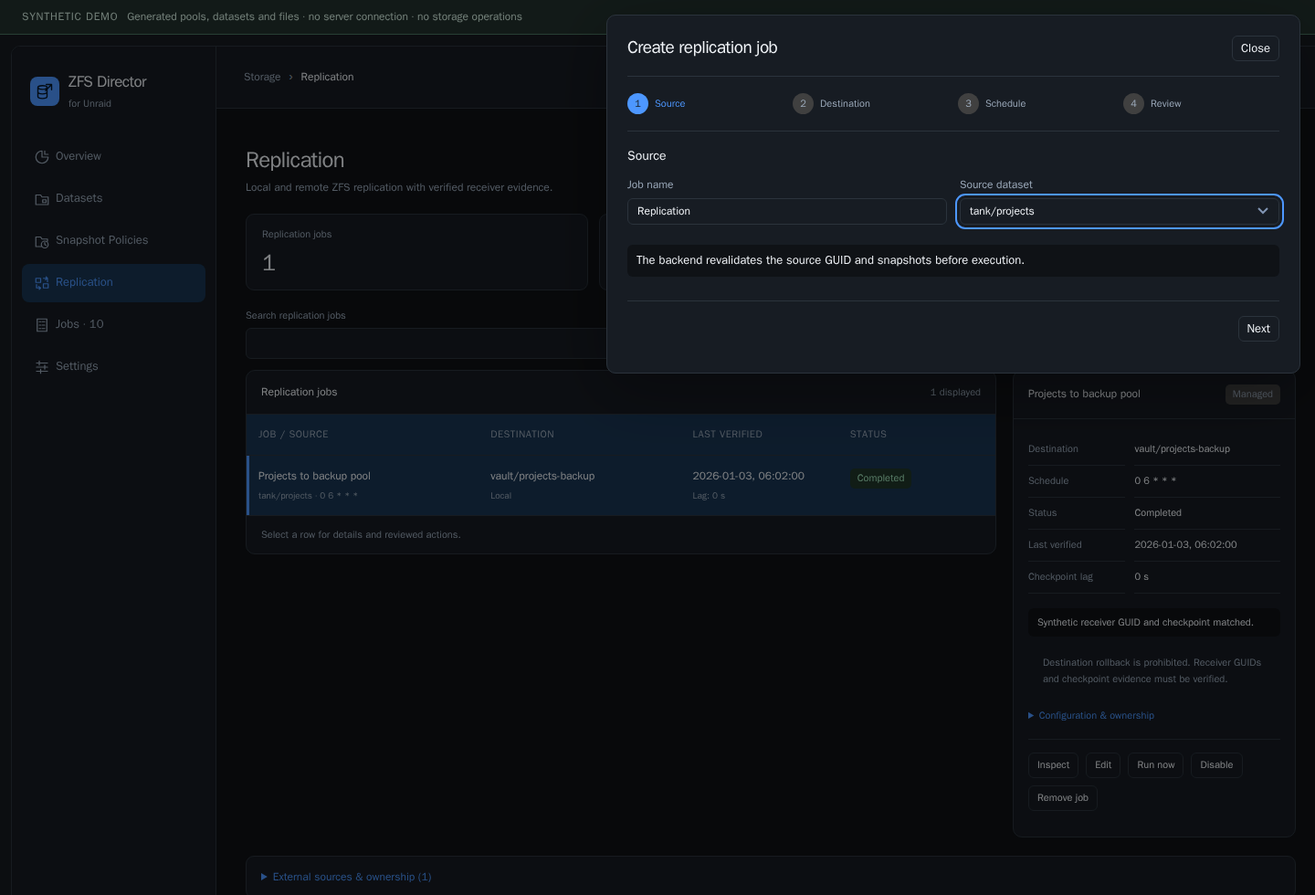
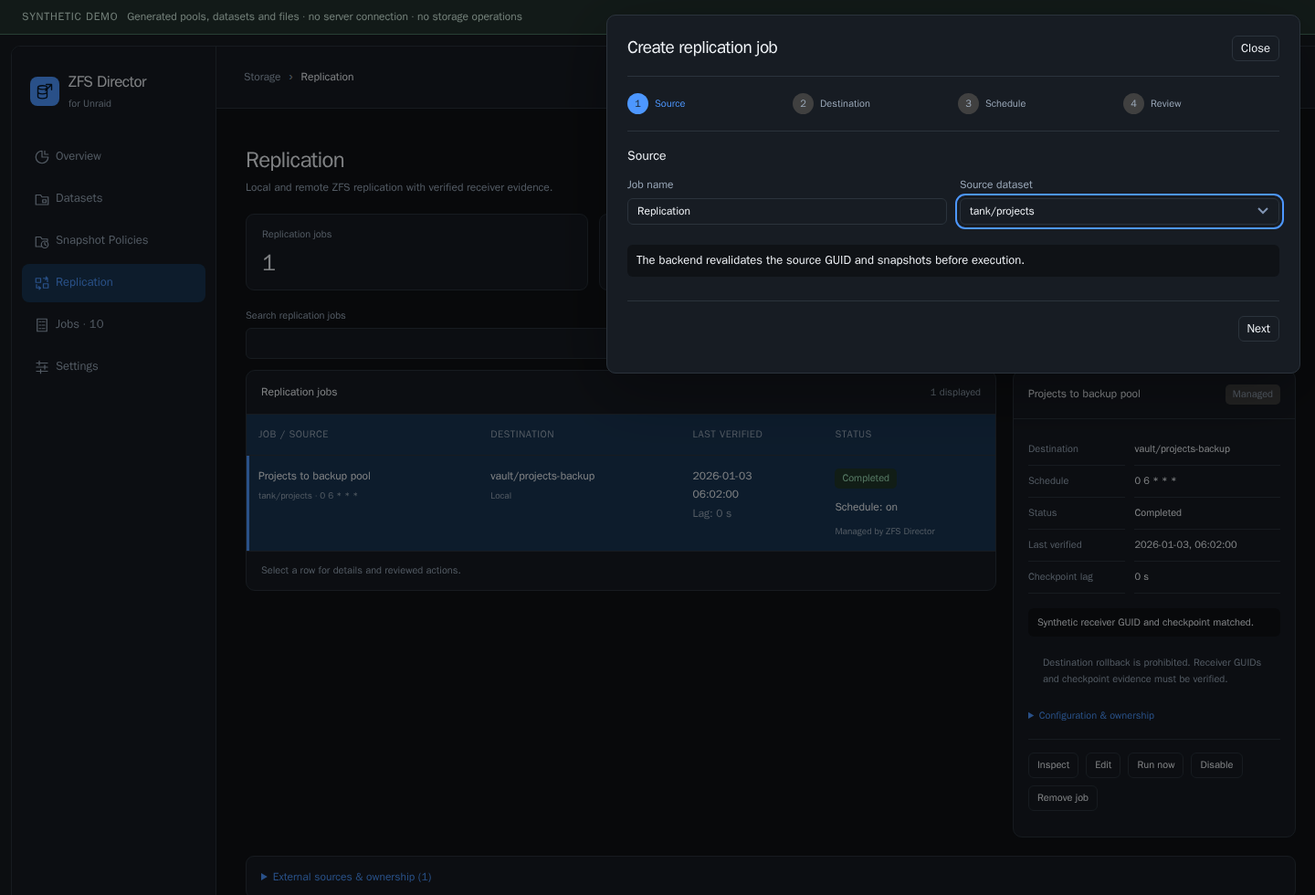
feat: clearer Status and date columns in Snapshot Policies and Replication (2026.11.09.6)

Changed region(s): [[0.1875, 0.5204, 0.7812, 0.6429]]

diff --git a/src/frontend/ZFSMProtection.js b/src/frontend/ZFSMProtection.js
@@ -58,6 +58,8 @@ function zfsmCreateProtection(options) {
         return control;
     }
     function when(value){return value?(typeof zfsmFormatDateTime==='function'?zfsmFormatDateTime(value):String(value)):'Unknown';}
+    function verifiedCell(r){const box=el('div');const verified=lastVerifiedLines(r);if(typeof verified==='string')box.append(el('strong',verified));else box.append(verified);box.append(el('small','Lag: '+(r.last_job?.verification?.lag_seconds==null?'Unknown':r.last_job.verification.lag_seconds+' s'),'zfsm-muted'));return box;}
+    function lastVerifiedLines(def){return def.last_job?.verification?.verified===true&&['completed','up_to_date'].includes(def.last_job.verified_outcome)?whenLines(def.last_job.finished_at):'Unknown';}
     function lastVerified(def){return def.last_job?.verification?.verified===true&&['completed','up_to_date'].includes(def.last_job.verified_outcome)?when(def.last_job.finished_at):'Unknown';}
     async function request(fields){const r=await options.request(fields);if(!r||typeof r!=='object'||Array.isArray(r))throw new Error('Invalid backend response.');if(r.failed&&Object.keys(r.failed).length)throw new Error(Object.values(r.failed).join('; '));return r;}
     function close(){if(dialog){const d=dialog;dialog=null;if(d.open)d.close();d.remove();}if(opener?.isConnected)opener.focus({preventScroll:true});}
@@ -71,6 +73,27 @@ function zfsmCreateProtection(options) {
     function onOff(value){return [true,1,'1','yes','zfs'].includes(value)?'On':[false,0,'0','no'].includes(value)?'Off':'Sanoid default';}
     function datasetPresent(def){if(typeof def.dataset_present==='boolean')return def.dataset_present;return !Array.isArray(data?.datasets)||data.datasets.some(item=>(typeof item==='string'?item:item.name)===def.dataset);}
     function lastPolicyRun(def){return def.owner==='external'?'Not tracked by Director':def.last_job?when(def.last_job.finished_at||def.last_job.started_at||def.last_job.created):'No runs yet';}
+    function lastPolicyRunCell(def){return def.owner==='external'||!def.last_job?lastPolicyRun(def):whenLines(def.last_job.finished_at||def.last_job.started_at||def.last_job.created);}
+    // Date and time on two lines so a long weekday format cannot run into the next column.
+    function whenLines(value){
+        const text=when(value),cut=text.lastIndexOf(', ');
+        if(cut<0)return text;
+        const box=el('div',undefined,'zfsm-protection-when');box.append(el('span',text.slice(0,cut)),el('span',text.slice(cut+2)));return box;
+    }
+    // Status column: result of the last run first, then whether the schedule is on, then who owns the definition.
+    function statusStack(def,type){
+        const box=el('div',undefined,'zfsm-status-stack');
+        if(def.owner==='external'){
+            box.append(el('span',def.enabled?'Configured in Sanoid':'Disabled in Sanoid'),el('small','External: not tracked by Director'));
+            return box;
+        }
+        if(type==='policy'&&!datasetPresent(def)){box.append(el('span','Dataset missing — execution blocked','zfsm-error'));return box;}
+        if(def.last_job)box.append(status(def.last_job.verified_outcome));else box.append(el('span','Not run yet','zfsm-protection-badge'));
+        box.append(el('span','Schedule: '+(def.enabled===false?'paused':'on')));
+        if(def.owner==='managed')box.append(el('small','Managed by ZFS Director'));
+        return box;
+    }
+    function stateText(node){return [...node.childNodes].map(child=>child.textContent).filter(Boolean).join(' · ');}
     function definitionState(def){if(def.owner==='external')return el('span',def.enabled?'Configured in Sanoid':'Disabled in Sanoid');if(!datasetPresent(def))return el('span','Dataset missing — execution blocked','zfsm-error');const n=el('div',def.enabled?'Enabled':'Disabled');if(def.last_job)n.append(el('br'),status(def.last_job.verified_outcome));return n;}
     const retentionTiers=['frequently','hourly','daily','weekly','monthly','yearly'];
     function retention(def){const host=el('div'),counts=retentionTiers.map(t=>[t,policyValue(def,t)]),nonzero=counts.filter(([,v])=>v!==undefined&&v!==null&&v!==''&&Number(v)>0);host.append(el('span',nonzero.length?nonzero.map(([t,v])=>v+' '+t+' snapshots').join(' · '):counts.every(([,v])=>v!==undefined&&v!==null&&v!==''&&Number(v)===0)?'All retention counts are zero':'Sanoid defaults'));humanRows(details(host,'All retention counts'),counts.map(([t,v])=>[t[0].toUpperCase()+t.slice(1),v===undefined||v===null||v===''?'Sanoid default':Number(v)===0?'Off (0 snapshots)':v+' snapshots']));return host;}
@@ -166,7 +189,7 @@ function zfsmCreateProtection(options) {
     function heading(host,title,subtitle,action,callback){const head=el('header',undefined,'zfsm-protection-heading'),text=el('div');text.append(el('h2',title),el('p',subtitle,'zfsm-muted'));head.append(text);if(action){const primary=btn(action,callback);primary.classList.add('zfsm-primary');head.append(primary);}host.append(head);}
     function metrics(host,values){if(compact())return;const cards=el('div',undefined,'zfsm-protection-metrics');for(const [label,value]of values){const card=el('section',undefined,'zfsm-protection-card');card.append(el('h3',label),el('strong',value));cards.append(card);}host.append(cards);}
     function rowTitle(title,subtitle){const n=el('div',undefined,'zfsm-protection-row-title');n.append(el('strong',title));if(subtitle)n.append(el('small',subtitle,'zfsm-muted'));return n;}
-    function inspectorSummary(host,def,type){if(type==='policy'){humanRows(host,[['Name',def.name||def.dataset],['Status',definitionState(def).textContent],['Snapshot creation',policyCreation(def)],['Old snapshot deletion',policyDeletion(def)],['Last run',lastPolicyRun(def)],['Last snapshot',when(def.last_snapshot)]]);}else{humanRows(host,[['Destination',(def.mode==='remote'?def.user+'@'+def.host+':':'')+def.target],['Schedule',def.schedule],['Status',def.enabled===false?'Disabled':outcomes[def.last_job?.verified_outcome]||'Unknown'],['Last verified',lastVerified(def)],['Checkpoint lag',def.last_job?.verification?.lag_seconds==null?'Unknown':def.last_job.verification.lag_seconds+' s']]);if(def.last_job?.verification?.reason)notice(host,def.last_job.verification.reason);}
+    function inspectorSummary(host,def,type){if(type==='policy'){humanRows(host,[['Name',def.name||def.dataset],['Status',stateText(definitionState(def))],['Snapshot creation',policyCreation(def)],['Old snapshot deletion',policyDeletion(def)],['Last run',lastPolicyRun(def)],['Last snapshot',when(def.last_snapshot)]]);}else{humanRows(host,[['Destination',(def.mode==='remote'?def.user+'@'+def.host+':':'')+def.target],['Schedule',def.schedule],['Status',def.enabled===false?'Disabled':outcomes[def.last_job?.verified_outcome]||'Unknown'],['Last verified',lastVerified(def)],['Checkpoint lag',def.last_job?.verification?.lag_seconds==null?'Unknown':def.last_job.verification.lag_seconds+' s']]);if(def.last_job?.verification?.reason)notice(host,def.last_job.verification.reason);}
         host.append(el('p',type==='policy'?'Manual, foreign, held and replication-linked snapshots remain protected by backend review.':'Destination rollback is prohibited. Receiver GUIDs and checkpoint evidence must be verified.','zfsm-protection-footer'));inspect(def,type,details(host,'Configuration & ownership'));
     }
     function definitionList(host,type,items,columns,values){const layout=el('div',undefined,'zfsm-protection-main'),panel=el('section',undefined,'zfsm-protection-list');layout.dataset.compact=String(compact());const title=el('div',undefined,'zfsm-protection-panel-title');title.append(el('strong',type==='policy'?'Snapshot policies':'Replication jobs'),el('span',items.length+' displayed','zfsm-muted'));panel.append(title);layout.append(panel);host.append(layout);let inspector;
@@ -178,10 +201,10 @@ function zfsmCreateProtection(options) {
     function policies(host){heading(host,'Snapshot Policies','Create snapshots on schedule and choose when old snapshots are deleted.','New policy',()=>policyEditor());
         const present=data.policies.filter(datasetPresent);metrics(host,[['Snapshot policies',present.length],['Managed policies',present.filter(p=>p.owner==='managed').length],['Needs attention',data.policies.filter(p=>p.owner==='managed'&&!datasetPresent(p)).length]]);
         const tools=el('div',undefined,'zfsm-protection-toolbar'),search=field(tools,'policy_search','Search dataset / template','','search'),owner=field(tools,'policy_owner','Owner','','text',[['','All owners'],['managed','Managed'],['external','External']]);host.append(tools);const results=el('div');host.append(results);
-        const draw=()=>{results.replaceChildren();const filtered=data.policies.filter(p=>(!owner.value||p.owner===owner.value)&&JSON.stringify([p.name,p.dataset,p.use_template,p.effective]).toLowerCase().includes(search.value.toLowerCase()));const drawTable=(target,items)=>definitionList(target,'policy',items,['Dataset / policy','Creation, retention & deletion','Last execution','Status'],p=>{const counts=policySchedule(p);const state=el('div');state.append(el('span',p.owner==='managed'?'Managed':'External','zfsm-protection-badge'),definitionState(p));return [rowTitle(p.dataset,(p.name||'Sanoid policy')+(p.recursive?' · includes descendants':'')),counts,lastPolicyRun(p),state];});drawTable(results,filtered.filter(p=>datasetPresent(p)||p.owner==='managed'));const missing=filtered.filter(p=>p.owner!=='managed'&&!datasetPresent(p));if(missing.length){const archived=details(results,'Configuration entries without matching datasets ('+missing.length+')');notice(archived,'These may be examples or outdated configuration entries. No matching dataset was found in the current inventory; the configuration file is unchanged.');drawTable(archived,missing);}};search.addEventListener('input',draw);owner.addEventListener('change',draw);draw();externalSources(host,'policy');host.append(el('p','Retention preserves snapshots without confirmed managed GUID provenance and replication references.','zfsm-protection-footer'));
+        const draw=()=>{results.replaceChildren();const filtered=data.policies.filter(p=>(!owner.value||p.owner===owner.value)&&JSON.stringify([p.name,p.dataset,p.use_template,p.effective]).toLowerCase().includes(search.value.toLowerCase()));const drawTable=(target,items)=>definitionList(target,'policy',items,['Dataset / policy','Creation, retention & deletion','Last execution','Status'],p=>{const counts=policySchedule(p);return [rowTitle(p.dataset,(p.name||'Sanoid policy')+(p.recursive?' · includes descendants':'')),counts,lastPolicyRunCell(p),statusStack(p,'policy')];});drawTable(results,filtered.filter(p=>datasetPresent(p)||p.owner==='managed'));const missing=filtered.filter(p=>p.owner!=='managed'&&!datasetPresent(p));if(missing.length){const archived=details(results,'Configuration entries without matching datasets ('+missing.length+')');notice(archived,'These may be examples or outdated configuration entries. No matching dataset was found in the current inventory; the configuration file is unchanged.');drawTable(archived,missing);}};search.addEventListener('input',draw);owner.addEventListener('change',draw);draw();externalSources(host,'policy');host.append(el('p','Retention preserves snapshots without confirmed managed GUID provenance and replication references.','zfsm-protection-footer'));
     }
     function replications(host){heading(host,'Replication','Local and remote ZFS replication with verified receiver evidence.','New replication',()=>replicationWizard());metrics(host,[['Replication jobs',data.replications.length],['Verified complete',data.replications.filter(r=>['completed','up_to_date'].includes(r.last_job?.verified_outcome)).length],['Needs attention',data.replications.filter(r=>['blocked','failed','interrupted','recovery_required','unknown'].includes(r.last_job?.verified_outcome)).length]]);
-        const tools=el('div',undefined,'zfsm-protection-toolbar'),search=field(tools,'replication_search','Search replication jobs','','search'),filter=field(tools,'replication_status','Job status','','text',[['','All statuses'],['enabled','Enabled'],['disabled','Disabled'],['attention','Needs attention']]);host.append(tools);const results=el('div');host.append(results);const draw=()=>{results.replaceChildren();const items=data.replications.filter(r=>(!search.value||[r.name,r.source,r.target].join(' ').toLowerCase().includes(search.value.toLowerCase()))&&(!filter.value||(filter.value==='enabled'?r.enabled!==false:filter.value==='disabled'?r.enabled===false:['blocked','failed','interrupted','recovery_required','unknown'].includes(r.last_job?.verified_outcome))));definitionList(results,'replication',items,['Job / source','Destination','Last verified','Status'],r=>{const state=el('div');if(r.enabled===false)state.append(el('span','Disabled'));state.append(r.last_job?status(r.last_job.verified_outcome):status('unknown'));return [rowTitle(r.name,r.source+' · '+r.schedule),rowTitle((r.mode==='remote'?r.user+'@'+r.host+':':'')+r.target,r.mode==='remote'?'Remote SSH':'Local'),rowTitle(lastVerified(r),'Lag: '+(r.last_job?.verification?.lag_seconds==null?'Unknown':r.last_job.verification.lag_seconds+' s')),state];});};search.addEventListener('input',draw);filter.addEventListener('change',draw);draw();externalSources(host,'replication');host.append(el('p','An exit code of 0 does not prove delivery. Receiver state, snapshot GUIDs and checkpoints determine the verified result.','zfsm-protection-footer'));
+        const tools=el('div',undefined,'zfsm-protection-toolbar'),search=field(tools,'replication_search','Search replication jobs','','search'),filter=field(tools,'replication_status','Job status','','text',[['','All statuses'],['enabled','Enabled'],['disabled','Disabled'],['attention','Needs attention']]);host.append(tools);const results=el('div');host.append(results);const draw=()=>{results.replaceChildren();const items=data.replications.filter(r=>(!search.value||[r.name,r.source,r.target].join(' ').toLowerCase().includes(search.value.toLowerCase()))&&(!filter.value||(filter.value==='enabled'?r.enabled!==false:filter.value==='disabled'?r.enabled===false:['blocked','failed','interrupted','recovery_required','unknown'].includes(r.last_job?.verified_outcome))));definitionList(results,'replication',items,['Job / source','Destination','Last verified','Status'],r=>[rowTitle(r.name,r.source+' · '+r.schedule),rowTitle((r.mode==='remote'?r.user+'@'+r.host+':':'')+r.target,r.mode==='remote'?'Remote SSH':'Local'),verifiedCell(r),statusStack(r,'replication')]);};search.addEventListener('input',draw);filter.addEventListener('change',draw);draw();externalSources(host,'replication');host.append(el('p','An exit code of 0 does not prove delivery. Receiver state, snapshot GUIDs and checkpoints determine the verified result.','zfsm-protection-footer'));
     }
     function settings(host){host.append(el(options.embeddedNavigation?'h3':'h2','Sanoid / Syncoid Integration'));const cards=el('div',undefined,'zfsm-protection-cards'),plugin=el('section',undefined,'zfsm-protection-card'),state=el('section',undefined,'zfsm-protection-card');
         plugin.append(el('h3','External plugin'),el('p',detection.installed?'Installed':'Not installed'),el('p','State: '+detection.state));for(const name of ['sanoid','syncoid']){const info=detection[name];plugin.append(el('p',name+': '+(info?.version||'Unknown')+' · '+(info?.path||'Not detected')));}

diff --git a/src/frontend/ZFSMProtection.css b/src/frontend/ZFSMProtection.css
@@ -75,6 +75,12 @@
 #zfsm-workspace .zfsm-protection-list .zfsm-protection-table :is(th,td) { min-width:0; max-width:none; padding:14px 13px; }
 #zfsm-workspace .zfsm-protection-list .zfsm-protection-table th:first-child { width:31%; }
 #zfsm-workspace .zfsm-protection-list .zfsm-protection-table th:nth-child(2) { width:27%; }
+#zfsm-workspace .zfsm-protection-list .zfsm-protection-table th:nth-child(3) { width:19%; }
+#zfsm-workspace .zfsm-protection-list .zfsm-protection-table th:nth-child(4) { width:23%; }
+#zfsm-workspace .zfsm-protection-when { display:flex; flex-direction:column; gap:2px; }
+#zfsm-workspace .zfsm-status-stack { display:flex; flex-direction:column; align-items:flex-start; gap:6px; min-width:0; }
+#zfsm-workspace .zfsm-status-stack small { color:var(--zfsm-muted); }
+#zfsm-workspace .zfsm-status-stack .zfsm-protection-badge { white-space:normal; }
 #zfsm-workspace .zfsm-protection-list tr[data-definition-id] { cursor:pointer; }
 #zfsm-workspace .zfsm-protection-list tr[data-definition-id]:hover { background:var(--zfsm-track); }
 #zfsm-workspace .zfsm-protection-list tr.is-selected { background:var(--zfsm-selected); box-shadow:inset 3px 0 var(--zfsm-accent); }

diff --git a/tests/installer.test.py b/tests/installer.test.py
@@ -44,7 +44,7 @@ class InstallerTests(unittest.TestCase):
     def removal_fixture(self, anchor):
         output = anchor / 'build'
         subprocess.run(['python3', str(ROOT / 'tools/build-installer.py'), '--output', str(output),
-                        '--release-base-url', 'https://example.invalid/releases/2026.11.09.5'],
+                        '--release-base-url', 'https://example.invalid/releases/2026.11.09.6'],
                        cwd=ROOT, check=True, capture_output=True)
         (anchor / 'live/scripts').mkdir(parents=True)
         (anchor / 'live/scripts/zfsm-worker.php').write_text('synthetic worker boundary')
@@ -156,12 +156,12 @@ class InstallerTests(unittest.TestCase):
         with tempfile.TemporaryDirectory(dir=STAND_TMP) as tmp:
             output = pathlib.Path(tmp) / 'build'
             subprocess.run(['python3', str(ROOT / 'tools/build-installer.py'), '--output', str(output),
-                            '--release-base-url', 'https://example.invalid/releases/2026.11.09.5'],
+                            '--release-base-url', 'https://example.invalid/releases/2026.11.09.6'],
                            cwd=ROOT, check=True, capture_output=True)
             self.assertTrue((output / 'zfs-director.plg').is_file(), 'The public plugin URL must use ZFS Director branding')
-            with zipfile.ZipFile(output / 'ZFS-Director-2026.11.09.5-Unraid.zip') as bundle:
+            with zipfile.ZipFile(output / 'ZFS-Director-2026.11.09.6-Unraid.zip') as bundle:
                 guide = bundle.read('INSTALL.txt').decode()
-                self.assertIn('https://example.invalid/releases/2026.11.09.5/zfs-director.plg', guide)
+                self.assertIn('https://example.invalid/releases/2026.11.09.6/zfs-director.plg', guide)
                 self.assertNotIn('explicit acceptance', guide)
                 self.assertNotIn('Copy its TWO files', guide)
                 self.assertNotIn('/boot/config/plugins/zfs.master.ui/', guide)
@@ -229,17 +229,17 @@ class InstallerTests(unittest.TestCase):
                 output = pathlib.Path(folder) / 'build'
                 args = ['python3', str(ROOT / 'tools/build-installer.py'), '--output', str(output)]
                 if public:
-                    args += ['--release-base-url', 'https://example.invalid/releases/2026.11.09.5']
+                    args += ['--release-base-url', 'https://example.invalid/releases/2026.11.09.6']
                 subprocess.run(args, cwd=ROOT, check=True, capture_output=True)
                 plugin_name = 'zfs-director.plg' if public else 'zfs.master.ui.local.plg'
-                bundle = output / 'ZFS-Director-2026.11.09.5-Unraid.zip'
+                bundle = output / 'ZFS-Director-2026.11.09.6-Unraid.zip'
                 self.assertTrue(bundle.is_file(), 'Users need a ready manual-install ZIP')
                 with zipfile.ZipFile(bundle) as archive:
                     self.assertIsNone(archive.testzip())
                     names = set(archive.namelist())
                     expected = {'INSTALL.txt', 'INSTALL.ru.txt', 'INSTALLATION.md', 'SHA256SUMS',
                                 'zfs-director/' + plugin_name,
-                                'zfs-director/zfs-director-2026.11.09.5.tgz'}
+                                'zfs-director/zfs-director-2026.11.09.6.tgz'}
                     if public:
                         expected.update(['legacy-local/zfs.master.ui.local.plg', 'legacy-public/zfs.master.ui.plg'])
                     self.assertEqual(names, expected, 'Bundle must not contain source, settings or Jobs')
@@ -252,14 +252,14 @@ class InstallerTests(unittest.TestCase):
                         digest, name = line.split('  ', 1)
                         self.assertEqual(digest, hashlib.sha256(archive.read(name)).hexdigest())
                     self.assertEqual(len(archive.read('SHA256SUMS').splitlines()), len(expected) - 1)
-                    for name in (plugin_name, 'zfs-director-2026.11.09.5.tgz'):
+                    for name in (plugin_name, 'zfs-director-2026.11.09.6.tgz'):
                         self.assertEqual(archive.read('zfs-director/' + name), (output / name).read_bytes())
                     for name in ('INSTALL.txt', 'INSTALL.ru.txt'):
                         guide = archive.read(name).decode()
                         self.assertIn('Plugins', guide)
                         self.assertIn('Install Plugin', guide)
                         self.assertNotIn('manual activation is required', guide)
-                        if public: self.assertIn('https://example.invalid/releases/2026.11.09.5/zfs-director.plg', guide)
+                        if public: self.assertIn('https://example.invalid/releases/2026.11.09.6/zfs-director.plg', guide)
                         self.assertNotRegex(guide, r'(?im)^\s*(?:npm |npx |python3 |git clone)')
                     # Reproduce only the documented file handoff in a private stand.
                     # No installation code is executed and no host path is used.
@@ -283,7 +283,7 @@ class InstallerTests(unittest.TestCase):
         with tempfile.TemporaryDirectory(dir=STAND_TMP) as folder:
             root = pathlib.Path(folder)
             out = root / 'build'
-            subprocess.run(['python3', str(ROOT / 'tools/build-installer.py'), '--output', str(out), '--release-base-url', 'https://example.invalid/releases/2026.11.09.5'], check=True, capture_output=True)
+            subprocess.run(['python3', str(ROOT / 'tools/build-installer.py'), '--output', str(out), '--release-base-url', 'https://example.invalid/releases/2026.11.09.6'], check=True, capture_output=True)
             first = ET.parse(out / 'zfs-director.plg').findall('FILE')[0]
             self.assertNotIn('Name', first.attrib)
             gate = first.findtext('INLINE')
@@ -316,7 +316,7 @@ class InstallerTests(unittest.TestCase):
     def test_stable_plugin_url_base_drives_update_checks_but_not_package_pinning(self):
         # A tag-pinned pluginURL makes Plugin Manager poll the same release forever.
         builder = ROOT / 'tools/build-installer.py'
-        base = 'https://example.invalid/releases/2026.11.09.5'
+        base = 'https://example.invalid/releases/2026.11.09.6'
         stable = 'https://example.invalid/stable/main'
         with tempfile.TemporaryDirectory(dir=STAND_TMP) as tmp:
             out = pathlib.Path(tmp) / 'build'
@@ -325,7 +325,7 @@ class InstallerTests(unittest.TestCase):
             for name in ['zfs-director.plg', 'zfs.master.ui.plg', 'zfs.master.ui.local.plg']:
                 plugin = ET.parse(out / name).getroot()
                 self.assertEqual(plugin.attrib['pluginURL'], stable + '/' + name)
-                self.assertEqual(plugin.findtext('FILE[@Name]/URL'), base + '/zfs-director-2026.11.09.5.tgz')
+                self.assertEqual(plugin.findtext('FILE[@Name]/URL'), base + '/zfs-director-2026.11.09.6.tgz')
             result = subprocess.run(['python3', str(builder), '--output', str(pathlib.Path(tmp) / 'local'),
                                      '--plugin-url-base', stable], cwd=ROOT, capture_output=True, text=True)
             self.assertEqual(result.returncode, 2)
@@ -335,9 +335,9 @@ class InstallerTests(unittest.TestCase):
         with tempfile.TemporaryDirectory(dir=STAND_TMP) as tmp:
             out = pathlib.Path(tmp) / 'build'
             subprocess.run(['python3', str(ROOT / 'tools/build-installer.py'), '--output', str(out),
-                            '--release-base-url', 'https://example.invalid/releases/2026.11.09.5'],
+                            '--release-base-url', 'https://example.invalid/releases/2026.11.09.6'],
                            cwd=ROOT, check=True, capture_output=True)
-            with zipfile.ZipFile(out / 'ZFS-Director-2026.11.09.5-Unraid.zip') as zipped:
+            with zipfile.ZipFile(out / 'ZFS-Director-2026.11.09.6-Unraid.zip') as zipped:
                 self.assertIn('legacy-local/zfs.master.ui.local.plg', zipped.namelist(), 'The public ZIP must provide an upgrade for existing .local registrations')
                 legacy = ET.fromstring(zipped.read('legacy-local/zfs.master.ui.local.plg'))
                 public = ET.fromstring(zipped.read('zfs-director/zfs-director.plg'))
@@ -427,7 +427,7 @@ class InstallerTests(unittest.TestCase):
         # A missing/wrong URL, an unpinned package or nondeterministic build
         # must fail before these artifacts are offered to a plugin manager.
         builder = ROOT / 'tools/build-installer.py'
-        base = 'https://downloads.example.invalid/zfs-director/2026.11.09.5'
+        base = 'https://downloads.example.invalid/zfs-director/2026.11.09.6'
         with tempfile.TemporaryDirectory(dir=STAND_TMP) as tmp:
             outputs = [pathlib.Path(tmp) / name for name in ['first', 'second']]
             for output in outputs:
@@ -436,7 +436,7 @@ class InstallerTests(unittest.TestCase):
                 self.assertEqual(result.returncode, 0, result.stderr)
             first, second = outputs
             self.assertEqual(sorted(p.name for p in first.iterdir()),
-                             ['SHA256SUMS', 'ZFS-Director-2026.11.09.5-Unraid.zip', 'install.sh', 'zfs-director-2026.11.09.5.tgz', 'zfs-director.plg', 'zfs.master.ui.local.plg', 'zfs.master.ui.plg'])
+                             ['SHA256SUMS', 'ZFS-Director-2026.11.09.6-Unraid.zip', 'install.sh', 'zfs-director-2026.11.09.6.tgz', 'zfs-director.plg', 'zfs.master.ui.local.plg', 'zfs.master.ui.plg'])
             for path in first.iterdir():
                 self.assertEqual(path.read_bytes(), (second / path.name).read_bytes(), path.name)
             for line in (first / 'SHA256SUMS').read_text().splitlines():
@@ -444,12 +444,12 @@ class InstallerTests(unittest.TestCase):
                 self.assertEqual(digest, hashlib.sha256((first / name).read_bytes()).hexdigest())
             plugin = ET.parse(first / 'zfs-director.plg').getroot()
             self.assertEqual(plugin.attrib['pluginURL'], base + '/zfs-director.plg')
-            self.assertEqual(plugin.attrib['version'], '2026.11.09.5')
+            self.assertEqual(plugin.attrib['version'], '2026.11.09.6')
             package = plugin.find('FILE[@Name]')
-            self.assertEqual(package.attrib['Name'], '/boot/config/plugins/zfs.master.ui/zfs-director-2026.11.09.5.tgz')
-            self.assertEqual(package.findtext('URL'), base + '/zfs-director-2026.11.09.5.tgz')
+            self.assertEqual(package.attrib['Name'], '/boot/config/plugins/zfs.master.ui/zfs-director-2026.11.09.6.tgz')
+            self.assertEqual(package.findtext('URL'), base + '/zfs-director-2026.11.09.6.tgz')
             self.assertIsNone(package.find('LOCAL'))
-            archive = first / 'zfs-director-2026.11.09.5.tgz'
+            archive = first / 'zfs-director-2026.11.09.6.tgz'
             self.assertEqual(package.findtext('MD5'), hashlib.md5(archive.read_bytes()).hexdigest())
             with tarfile.open(archive) as tar:
                 release = json.load(tar.extractfile('zfs.master.ui/release.json'))

diff --git a/tools/build-installer.py b/tools/build-installer.py
@@ -17,7 +17,7 @@ import zipfile
 from urllib.parse import urlsplit
 
 ROOT = pathlib.Path(__file__).resolve().parents[1]
-VERSION = '2026.11.09.5'
+VERSION = '2026.11.09.6'
 STOP_MARKER = r'''use strict;
 use warnings;
 use Fcntl qw(:DEFAULT :mode);
@@ -184,7 +184,7 @@ def build(output, release_base=None, plugin_url_base=None):
     plugin_url = update_base + '/' + plugin_name if release_base else 'file:///boot/config/plugins/zfs.master.ui/' + plugin_name
     plugin = ET.Element('PLUGIN', name='zfs.master.ui', author='d1-m4ss', version=VERSION, min='7.3.3',
                         icon='database', launch='Main/ZFSDirector', pluginURL=plugin_url)
-    ET.SubElement(plugin, 'CHANGES').text = f'### {VERSION}\nStart scrub works on pools that were never scrubbed (their status has no scan line). Replication destination is picked from a list of local datasets (or a new name); Directory listing and exclusion lists are checklists of datasets.\n\nZFS Director: based on ZFS Master by Carlos Rodriguez (IkerSaint). GPL-2.0-or-later. Settings and recovery state retain their namespace. Background services start automatically after successful validation. Uninstall stops Director services and preserves settings, Jobs and recovery data.'
+    ET.SubElement(plugin, 'CHANGES').text = f'### {VERSION}\nSnapshot Policies and Replication tables: clearer Status column (last result, schedule on/paused, owner), date and time on two lines, no overlapping columns.\n\nZFS Director: based on ZFS Master by Carlos Rodriguez (IkerSaint). GPL-2.0-or-later. Settings and recovery state retain their namespace. Background services start automatically after successful validation. Uninstall stops Director services and preserves settings, Jobs and recovery data.'
     package = ET.SubElement(plugin, 'FILE', Name=f'/boot/config/plugins/zfs.master.ui/{archive.name}')
     ET.SubElement(package, 'URL' if release_base else 'LOCAL').text = release_base + '/' + archive.name if release_base else package.attrib['Name']
     ET.SubElement(package, 'MD5').text = hashlib.md5(archive.read_bytes()).hexdigest()

diff --git a/README.ru.md b/README.ru.md
@@ -8,7 +8,7 @@
 - **[Интеграция Sanoid](#политики-sanoid):** задайте время создания snapshots, хранение и безопасное удаление старых копий; просматривайте External и Managed policies.
 - **[Интеграция Syncoid](#репликация-syncoid):** настройте локальную или SSH-репликацию через Source → Destination → Schedule → Review; progress и проверенный результат доступны в Jobs.
 
-**[Скачать установочный ZIP для Unraid](https://github.com/d1-m4ss/zfs-director/releases/download/2026.11.09.5/ZFS-Director-2026.11.09.5-Unraid.zip)** · [SHA256SUMS](https://github.com/d1-m4ss/zfs-director/releases/download/2026.11.09.5/SHA256SUMS) · [Установка и rollback](docs/INSTALLATION.md)
+**[Скачать установочный ZIP для Unraid](https://github.com/d1-m4ss/zfs-director/releases/download/2026.11.09.6/ZFS-Director-2026.11.09.6-Unraid.zip)** · [SHA256SUMS](https://github.com/d1-m4ss/zfs-director/releases/download/2026.11.09.6/SHA256SUMS) · [Установка и rollback](docs/INSTALLATION.md)
 
 **Версия 2026.10.22.1** проверена на физическом сервере Unraid 7.3.3 с OpenZFS 2.4.4 и в изолированной VM. Установка, обновления, ZFS-операции и GUI описаны в [результатах проверки](docs/TESTING.md#rc1-verification-2026-10-22).
 
@@ -45,7 +45,7 @@ https://raw.githubusercontent.com/d1-m4ss/zfs-director/main/plugin/zfs-director.
 
 Новые версии появляются в **Plugins → Check for Updates** и в Community Applications. Ставили плагин по старому URL релиза (`…/releases/download/…/zfs-director.plg`)? Один раз переустановите его по URL выше с **Force Install**, чтобы проверка обновлений видела новые релизы.
 
-Также доступны [ZIP и контрольные суммы](https://github.com/d1-m4ss/zfs-director/releases/tag/2026.11.09.5). Подробнее — в [инструкции установки, обновления и rollback](docs/INSTALLATION.md).
+Также доступны [ZIP и контрольные суммы](https://github.com/d1-m4ss/zfs-director/releases/tag/2026.11.09.6). Подробнее — в [инструкции установки, обновления и rollback](docs/INSTALLATION.md).
 
 ## Snapshot File Manager
 

diff --git a/README.md b/README.md
@@ -8,7 +8,7 @@ Manage ZFS in Unraid, browse snapshots in a **Snapshot File Manager**, automate 
 - **[Sanoid integration](#sanoid-snapshot-policies):** choose snapshot creation times, retention and protected removal of old snapshots; review External and Managed policies.
 - **[Syncoid integration](#syncoid-replication):** create local or SSH replication jobs through Source → Destination → Schedule → Review, with progress and verified results in Jobs.
 
-**[Download the Unraid installation ZIP](https://github.com/d1-m4ss/zfs-director/releases/download/2026.11.09.5/ZFS-Director-2026.11.09.5-Unraid.zip)** · [SHA256SUMS](https://github.com/d1-m4ss/zfs-director/releases/download/2026.11.09.5/SHA256SUMS) · [Installation and rollback](docs/INSTALLATION.md)
+**[Download the Unraid installation ZIP](https://github.com/d1-m4ss/zfs-director/releases/download/2026.11.09.6/ZFS-Director-2026.11.09.6-Unraid.zip)** · [SHA256SUMS](https://github.com/d1-m4ss/zfs-director/releases/download/2026.11.09.6/SHA256SUMS) · [Installation and rollback](docs/INSTALLATION.md)
 
 **Version 2026.10.22.1** was tested on a physical Unraid 7.3.3 server with OpenZFS 2.4.4 and in an isolated VM. See the [verification results](docs/TESTING.md#rc1-verification-2026-10-22) for installation, upgrades, ZFS operations and GUI checks.
 
@@ -45,7 +45,7 @@ The installer downloads and verifies the ready-made package, creates its own sto
 
 New versions appear in **Plugins → Check for Updates** and in Community Applications. Installed from an older release URL (`…/releases/download/…/zfs-director.plg`)? Reinstall once from the URL above with **Force Install** so update checks follow new releases.
 
-The [ZIP and checksums](https://github.com/d1-m4ss/zfs-director/releases/tag/2026.11.09.5) are also available. See [installation, upgrades and rollback](docs/INSTALLATION.md).
+The [ZIP and checksums](https://github.com/d1-m4ss/zfs-director/releases/tag/2026.11.09.6) are also available. See [installation, upgrades and rollback](docs/INSTALLATION.md).
 
 ## Snapshot File Manager
 

diff --git a/docs/DEVELOPMENT.md b/docs/DEVELOPMENT.md
@@ -8,7 +8,7 @@ The package builder supports **local evaluation and an explicitly configured pub
 
 ```sh
 python3 tools/build-installer.py --output dist/local
-RELEASE_BASE_URL='https://github.com/d1-m4ss/zfs-director/releases/download/2026.11.09.5'
+RELEASE_BASE_URL='https://github.com/d1-m4ss/zfs-director/releases/download/2026.11.09.6'
 python3 tools/build-installer.py --output dist/release --release-base-url "$RELEASE_BASE_URL" \
   --plugin-url-base https://raw.githubusercontent.com/d1-m4ss/zfs-director/main/plugin
 ```
@@ -47,6 +47,6 @@ The preview uses the real frontend with a read-only synthetic response adapter. 
 
 ## Manual-install ZIP
 
-Every build also produces `ZFS-Director-2026.11.09.5-Unraid.zip`. It contains the matching PLG/TGZ pair, two short installation guides, the full installation guide and an internal SHA-256 manifest. No source tree, settings, Jobs or datasets are included. Release mode places `zfs-director.plg` in `zfs-director` and includes the compatibility definitions under `legacy-public` and `legacy-local` for existing local registrations; all use the common TGZ. Local mode contains only `zfs.master.ui.local.plg`. Never mix assets from different builds.
+Every build also produces `ZFS-Director-2026.11.09.6-Unraid.zip`. It contains the matching PLG/TGZ pair, two short installation guides, the full installation guide and an internal SHA-256 manifest. No source tree, settings, Jobs or datasets are included. Release mode places `zfs-director.plg` in `zfs-director` and includes the compatibility definitions under `legacy-public` and `legacy-local` for existing local registrations; all use the common TGZ. Local mode contains only `zfs.master.ui.local.plg`. Never mix assets from different builds.
 
 ZIP member names, timestamps and modes are deterministic. Publish the ZIP and external `SHA256SUMS` together with the matching public PLG, compatibility PLG and TGZ release assets. The ZIP is the primary download for manual installation; GitHub's source-code archives are for development.

diff --git a/docs/INSTALLATION.md b/docs/INSTALLATION.md
@@ -1,6 +1,6 @@
 # Install ZFS Director in Unraid
 
-Version 2026.11.09.5 targets Unraid 7.3.3 / OpenZFS 2.4.4. No source build, developer tools, terminal activation or manual state-directory creation is required.
+Version 2026.11.09.6 targets Unraid 7.3.3 / OpenZFS 2.4.4. No source build, developer tools, terminal activation or manual state-directory creation is required.
 
 ## Install
 
@@ -22,7 +22,7 @@ Existing settings, Jobs, recovery files and schedules are retained. If the insta
 
 ## ZIP download
 
-The release also provides a [ready-made ZIP](https://github.com/d1-m4ss/zfs-director/releases/download/2026.11.09.5/ZFS-Director-2026.11.09.5-Unraid.zip) and [SHA256SUMS](https://github.com/d1-m4ss/zfs-director/releases/download/2026.11.09.5/SHA256SUMS), containing matching PLG/TGZ files and short English/Russian guides. The plugin URL above is the normal installation method.
+The release also provides a [ready-made ZIP](https://github.com/d1-m4ss/zfs-director/releases/download/2026.11.09.6/ZFS-Director-2026.11.09.6-Unraid.zip) and [SHA256SUMS](https://github.com/d1-m4ss/zfs-director/releases/download/2026.11.09.6/SHA256SUMS), containing matching PLG/TGZ files and short English/Russian guides. The plugin URL above is the normal installation method.
 
 For local PLG selection, extract the ZIP and copy `zfs-director/zfs-director.plg` to the flash drive's existing `config/plugins` folder. Select that file in **Plugins → Install Plugin**. The public PLG downloads its matching TGZ itself. You do not need to create a separate plugin directory or unpack the TGZ into WebGUI.
 

diff --git a/src/README.md b/src/README.md
@@ -1,5 +1,5 @@
 **ZFS Director**
 
-Manage ZFS datasets, snapshots, file restores, snapshot policies and replication in Unraid. Version 2026.11.09.5.
+Manage ZFS datasets, snapshots, file restores, snapshot policies and replication in Unraid. Version 2026.11.09.6.
 
 Derived from ZFS Master by Carlos Rodriguez (IkerSaint), copyright 2021, with further adaptations credited in NOTICE.md. GPL-2.0-or-later; no warranty. The legacy plugin ID is zfs.master.ui. See the repository README for requirements, safety boundaries, build instructions and known limitations.
